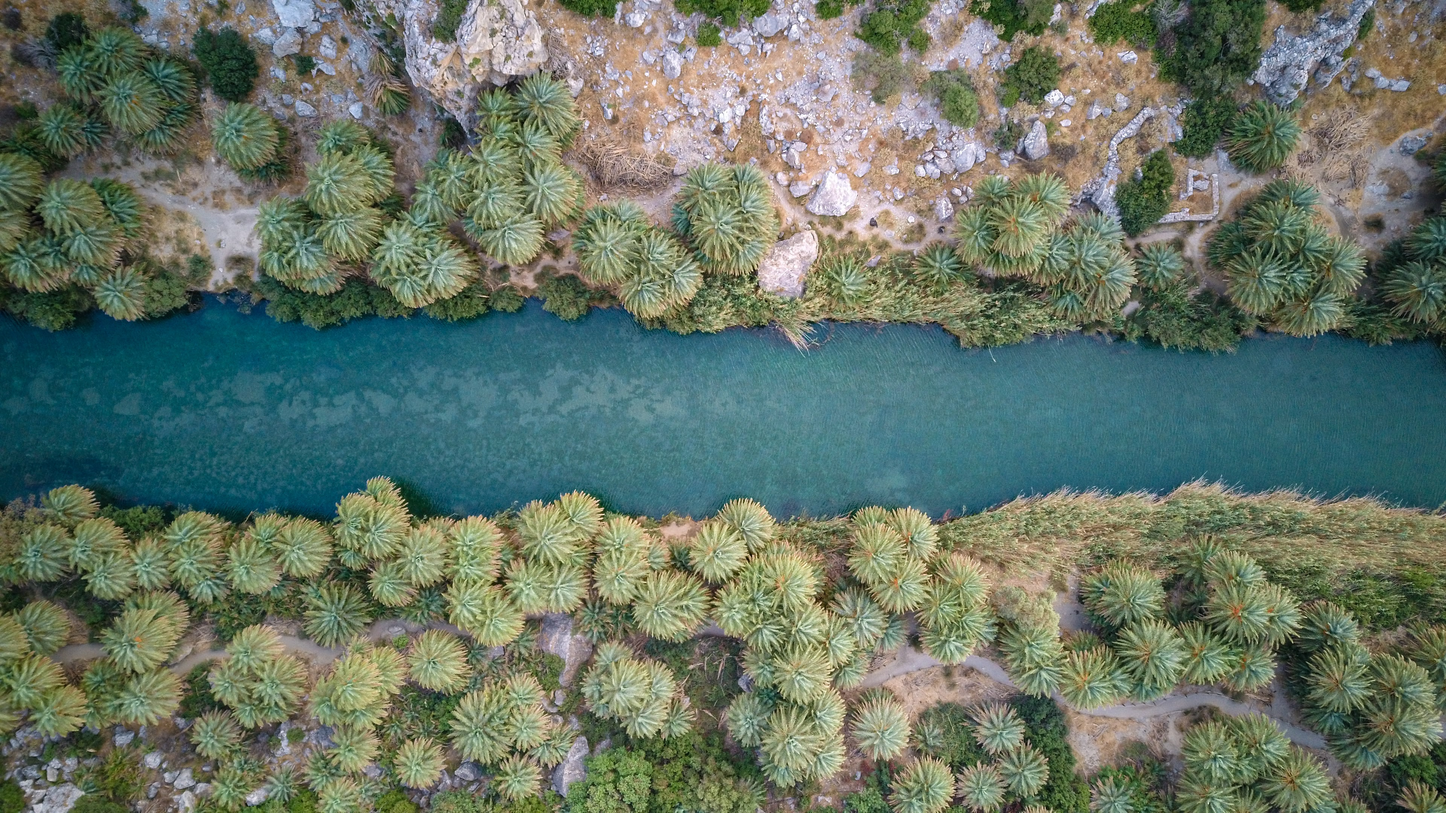
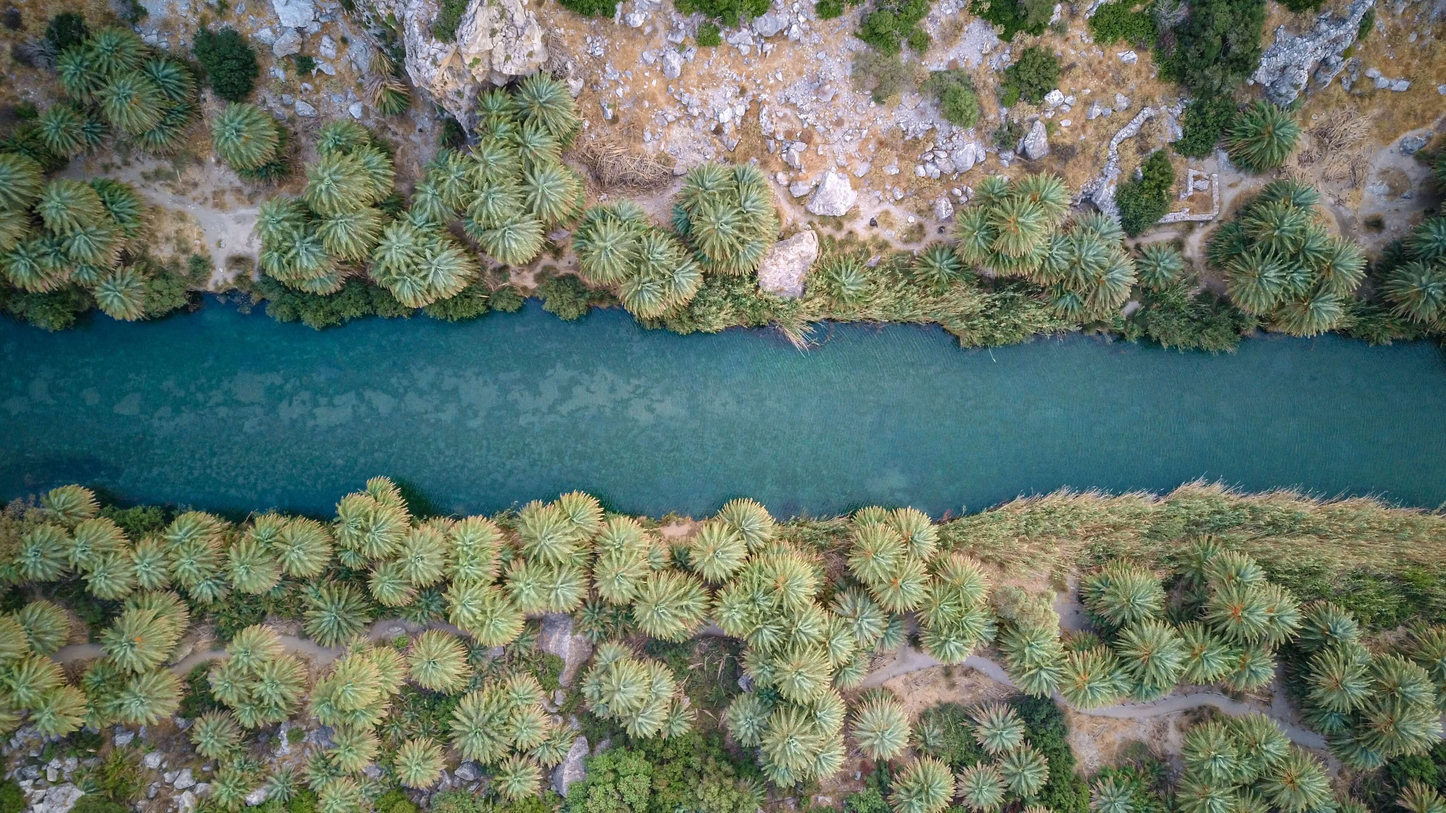
Compressed background image and moved stylesheet into the assets folder

diff --git a/public/assets/style.css b/public/assets/style.css
@@ -3,7 +3,7 @@ body,
     margin: 0;
     width: 100vw;
     height: 100vh;
-    background-image: url("./assets/reef.jpg");
+    background-image: url("reef.jpg");
     background-position: center;
     background-attachment: fixed;
     background-size: cover;

diff --git a/public/index.html b/public/index.html
@@ -2,7 +2,7 @@
 <html>
 <head>
 	<meta name="viewport" content="width=device-width,initial-scale=1" />
-	<link rel="stylesheet" href="style.css">
+	<link rel="stylesheet" href="assets/style.css">
 	<title>Ping Pong Game</title>
 </head>
 <body>
